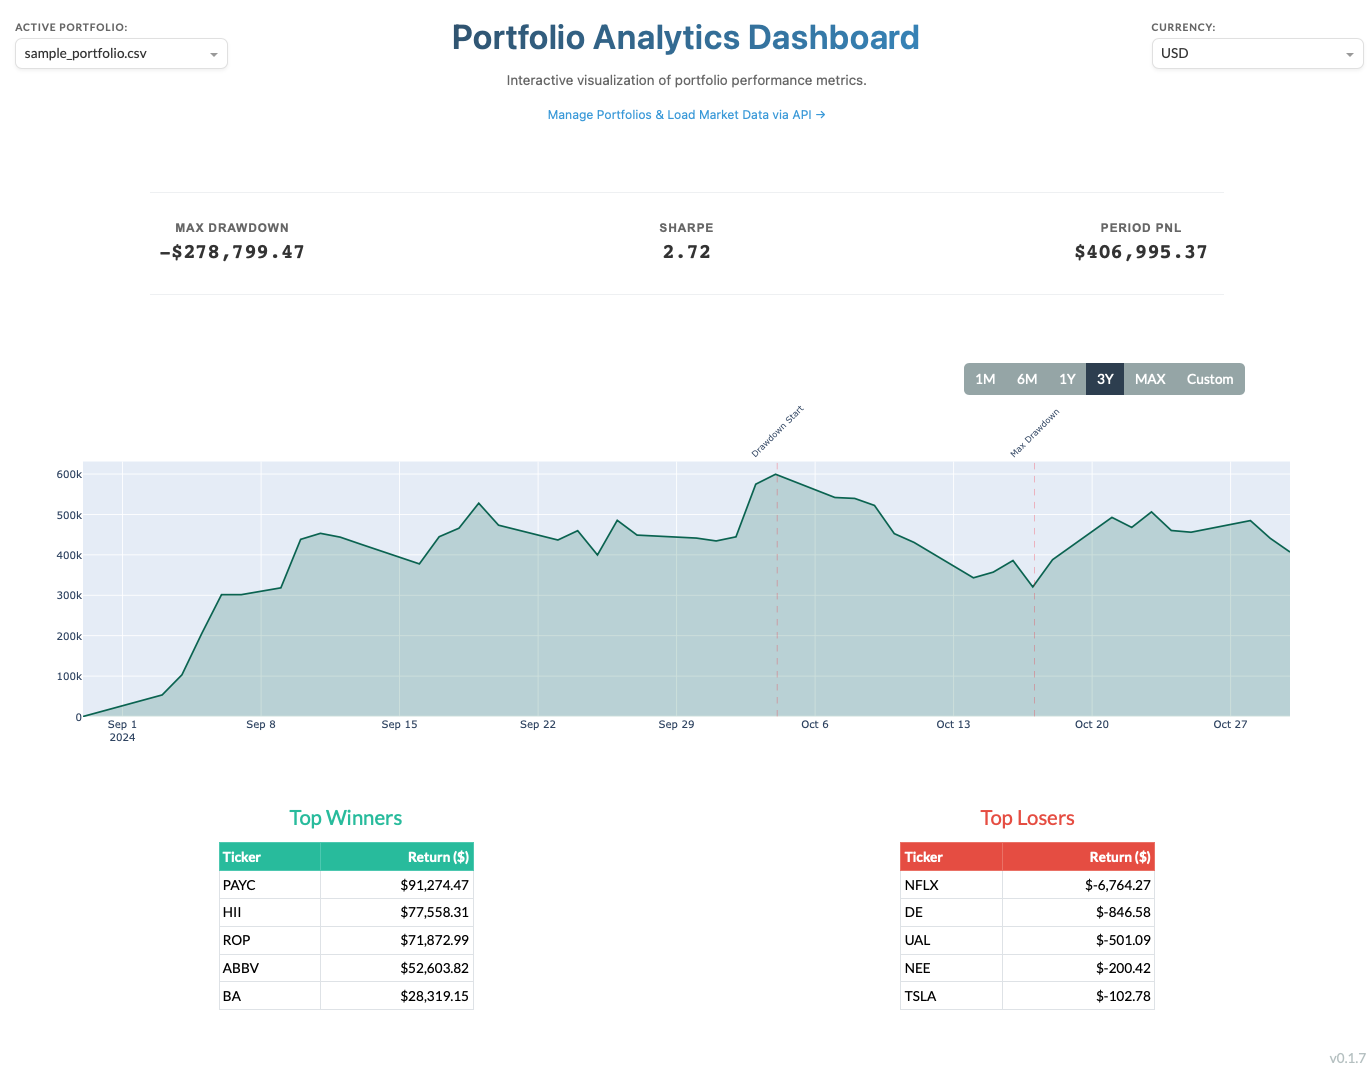
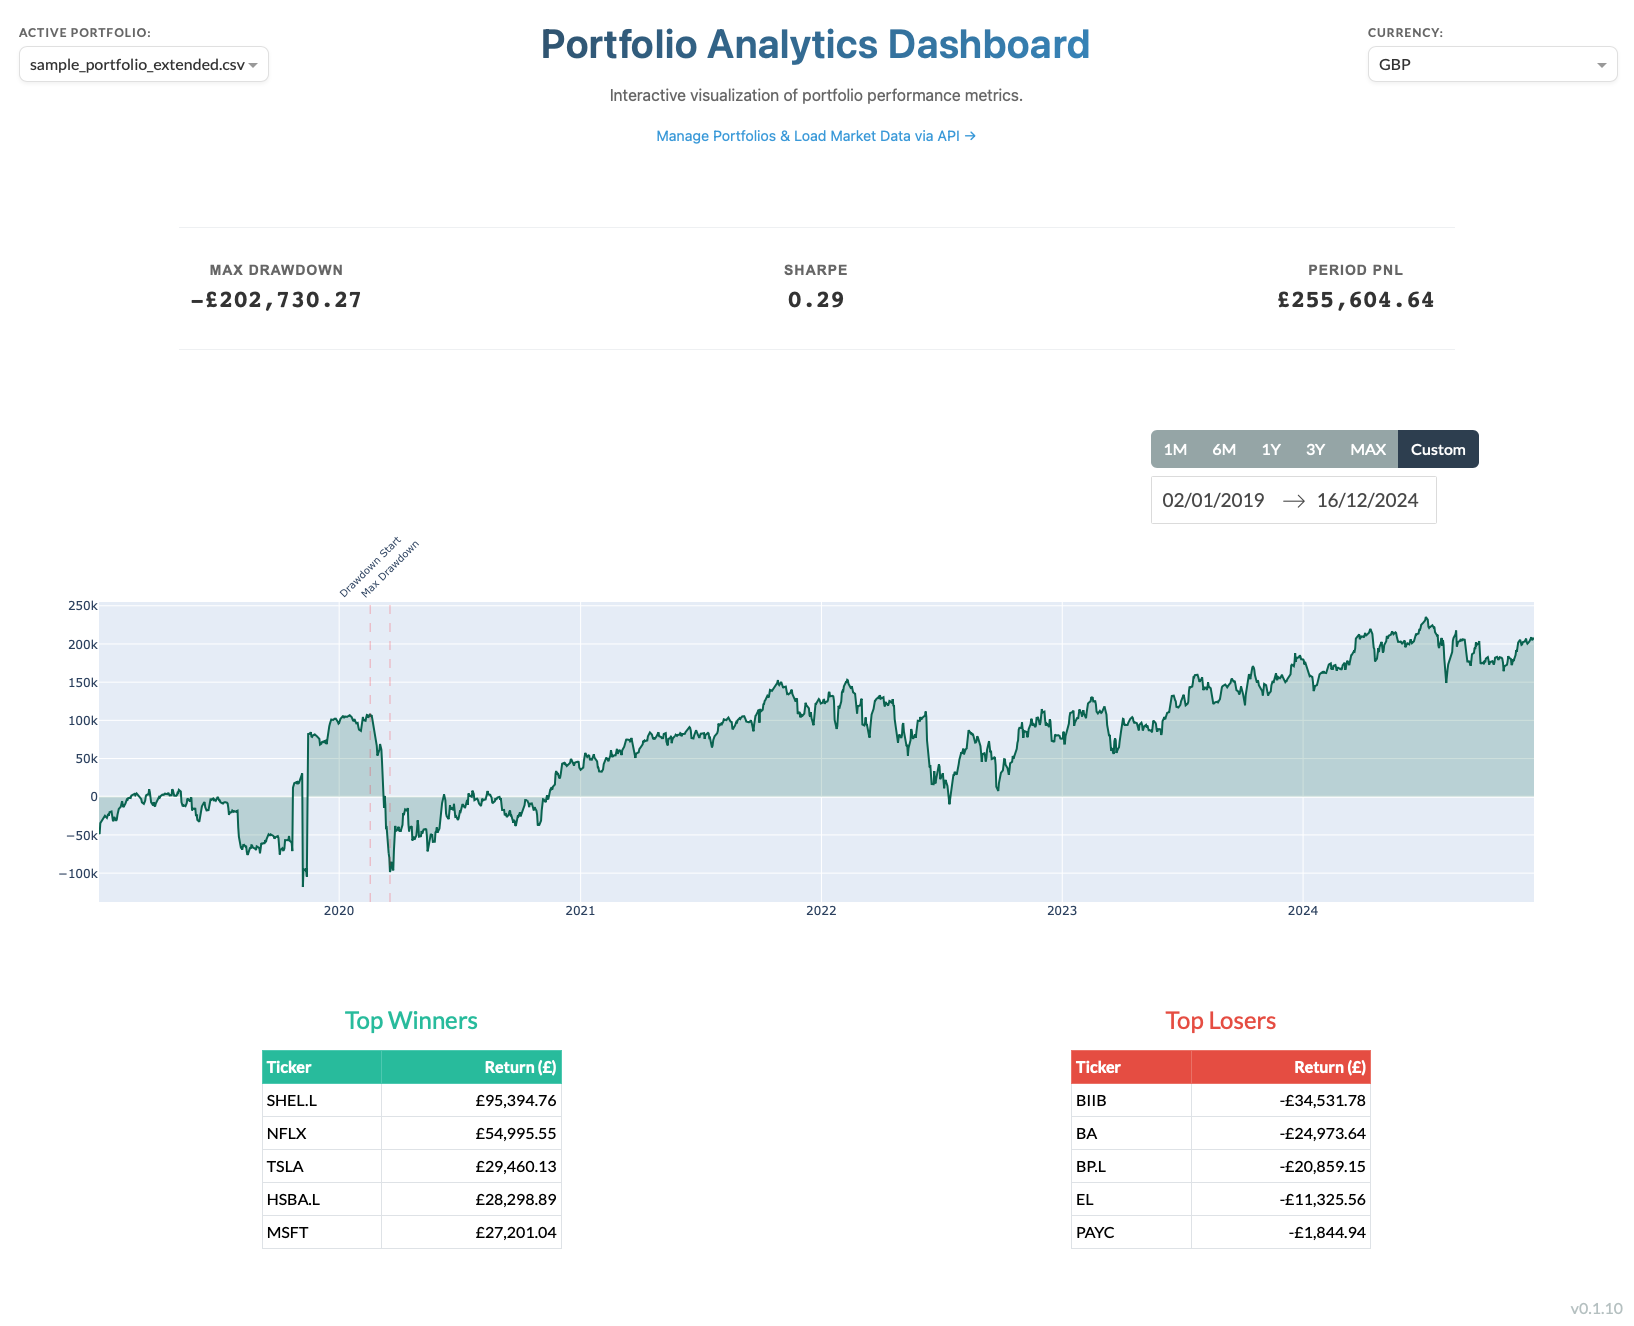
fix: convert to target currency after computing pnl (#21)
* fix: convert to target currency after computing pnl

* docs: update dashboard screenshot

diff --git a/portfolio_analytics/dashboard/core/pnl.py b/portfolio_analytics/dashboard/core/pnl.py
@@ -81,26 +81,25 @@ def calculate_pnl_expanded(
     _validate_date_range(df, start_date, end_date)
     df = _filter_dataframe(df, start_date, end_date, tickers)
 
-    # Convert to target currency if needed
-    if target_currency != Currency.USD:
-        df["MidUsd"] *= df[f"USD{target_currency.name}=X"]
-    df["Currency"] = target_currency.value
-
-    # Drop fx columns and rename to Mid
-    df = df.drop(columns=[col for col in df.columns if col.endswith("=X")])
-    df = df.rename(columns={"MidUsd": "Mid"})
-
     # Consider positions at t0 as 0
     df.loc[df.groupby("Ticker").head(1).index, "Positions"] = 0
     df["Trades"] = df.groupby("Ticker")["Positions"].diff()
-    df["PortfolioValues"] = df["Positions"] * df["Mid"]
-    df["CashFlow"] = (df["Trades"] * df["Mid"]).apply(lambda x: -x if x else 0)
+    df["PortfolioValues"] = df["Positions"] * df["MidUsd"]
+    df["CashFlow"] = (df["Trades"] * df["MidUsd"]).apply(lambda x: -x if x else 0)
 
     # Calculate cumulative cash flows and PnL per ticker
     df["CashFlowCumSum"] = df.groupby("Ticker")["CashFlow"].cumsum()
     df["PnL"] = df.apply(
         lambda row: row["PortfolioValues"] + row["CashFlowCumSum"], axis=1
     )
+
+    # Convert to target currency if needed
+    if target_currency != Currency.USD:
+        df["PnL"] *= df[f"USD{target_currency.name}=X"]
+    df["Currency"] = target_currency.value
+
+    # Drop fx columns and rename to Mid
+    df = df.drop(columns=[col for col in df.columns if col.endswith("=X")])
 
     return df
 

diff --git a/tests/test_dashboard/test_core/test_pnl.py b/tests/test_dashboard/test_core/test_pnl.py
@@ -25,7 +25,7 @@ def sample_df() -> pd.DataFrame:
             "Ticker": ["AAPL", "GOOGL", "AAPL"],
             "Positions": [100, 200, 150],
             "Trades": [100, 200, 50],
-            "Mid": [100, 200, 150],
+            "MidUsd": [100, 200, 150],
             "PortfolioValues": [100, 200, 150],
             "CashFlow": [100, 200, 50],
         }
